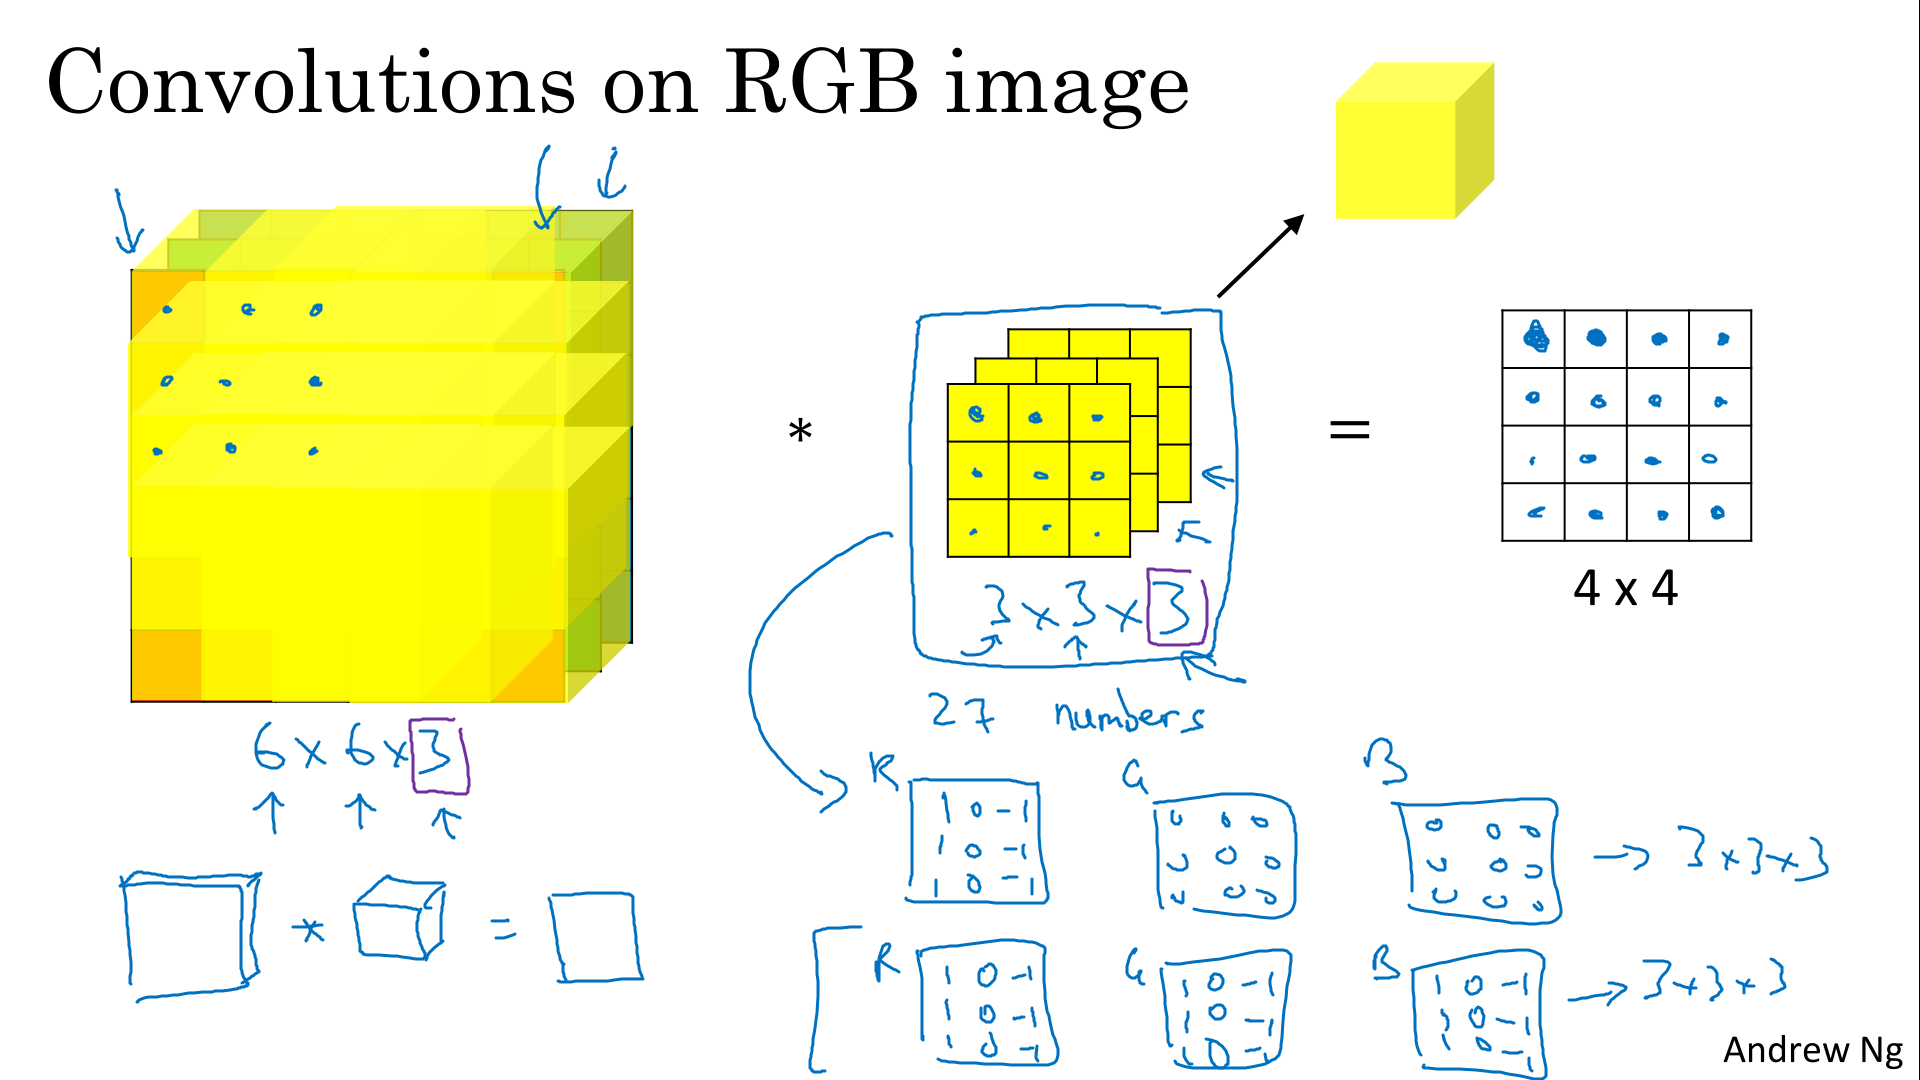
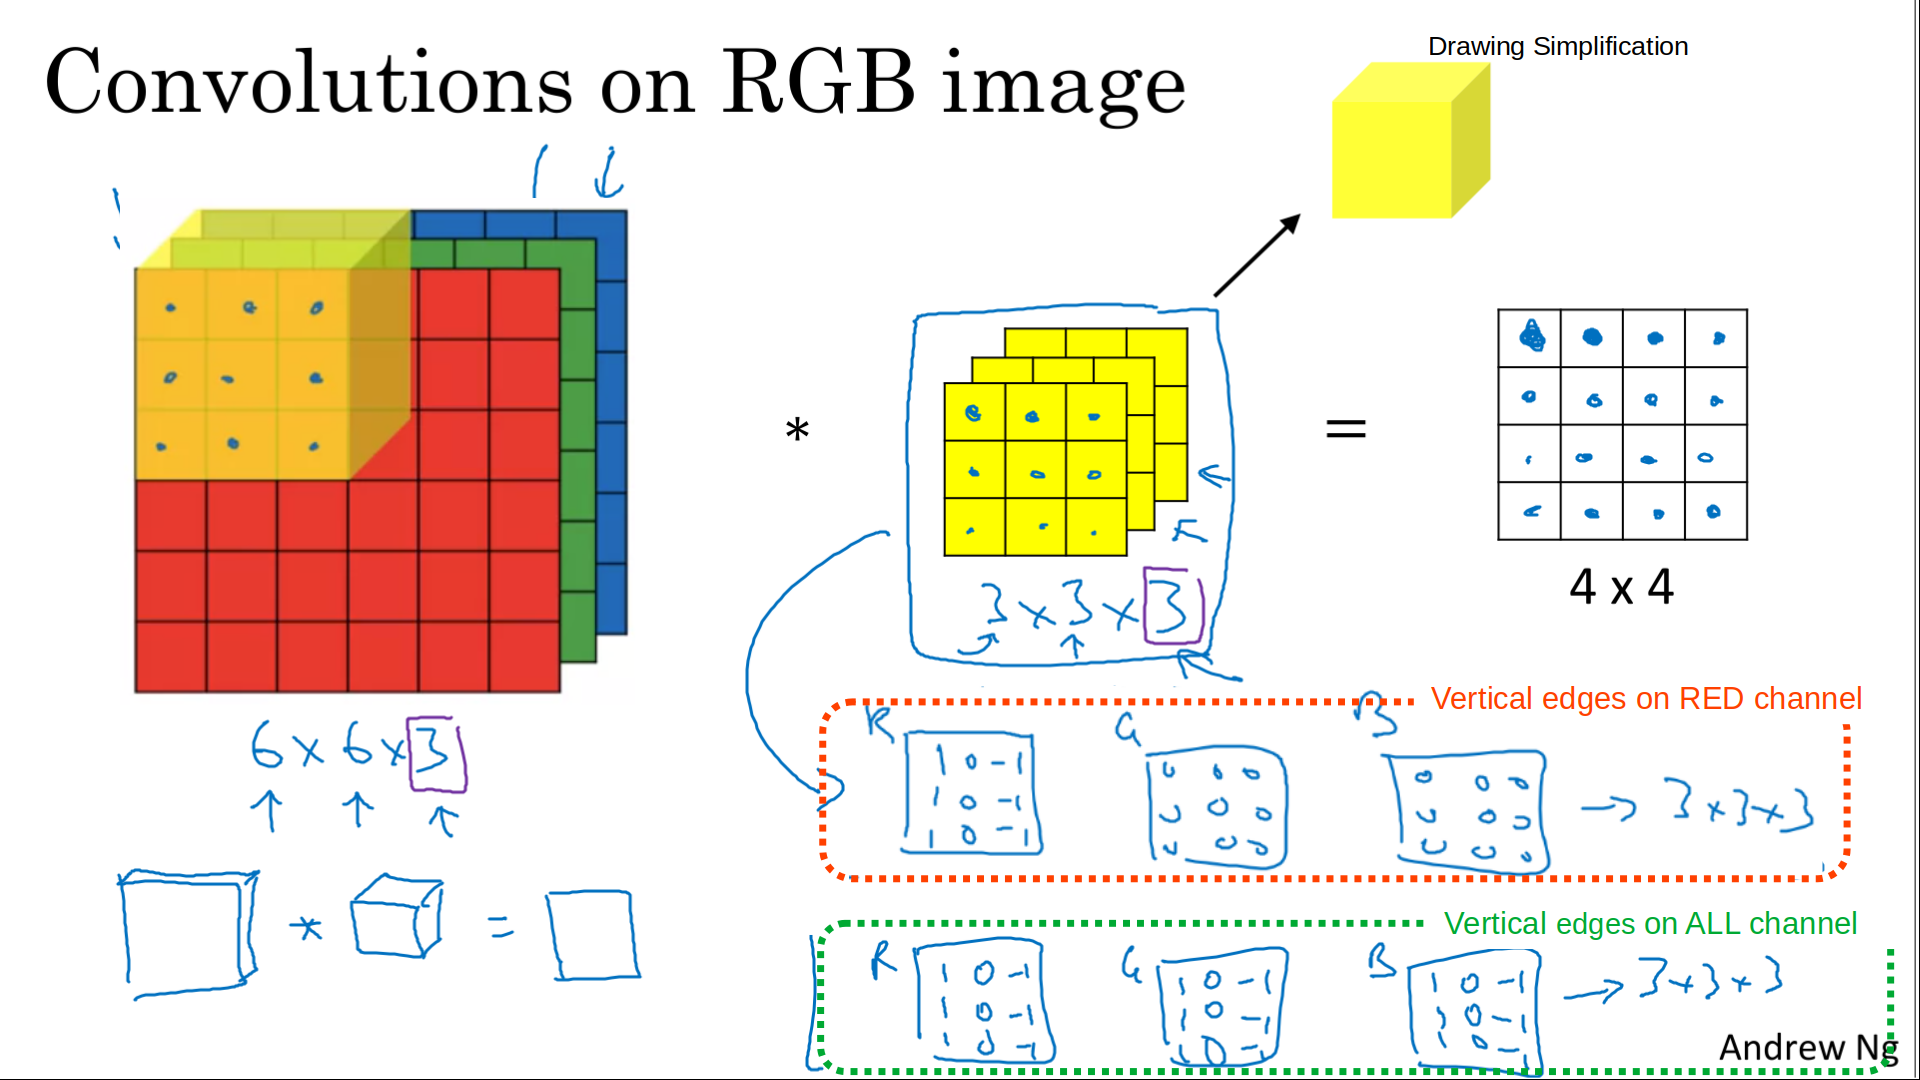
Convolutions Over Volume

diff --git a/c4-convolutional-neural-netowrks/week1/README.md b/c4-convolutional-neural-netowrks/week1/README.md
@@ -175,8 +175,18 @@ By convention, in machine learning, we usually do not bother with this flipping 
 
 ## Convolutions Over Volume
 
-> <img src="./images/w01-06-Convolutions_Over_Volume/img_2023-04-01_09-47-12.png">
+We see how convolution works with 2D images, now lets see if we want to convolve 3D images (RGB image)
+
+Filter has 3 dimensions : ```height x width x channel``` , channel dimension corresponds to the red, green, and blue channels.
+
+In term of dimensions, we have ```6x6x6 * 3x3x3 = 4x4 ``` 
+
 > <img src="./images/w01-06-Convolutions_Over_Volume/img_2023-04-01_09-47-13.png">
+
+Last crucial idea  for building convolutional neural networks : we don't just wanted to detect vertical edges, but also horizontal edges, maybe 45 degree edges, maybe 70 degree edges as well
+
+In other words, what if you want to use multiple filters at the same time.
+
 > <img src="./images/w01-06-Convolutions_Over_Volume/img_2023-04-01_09-47-15.png">
 
 ## One Layer of a Convolutional Network
